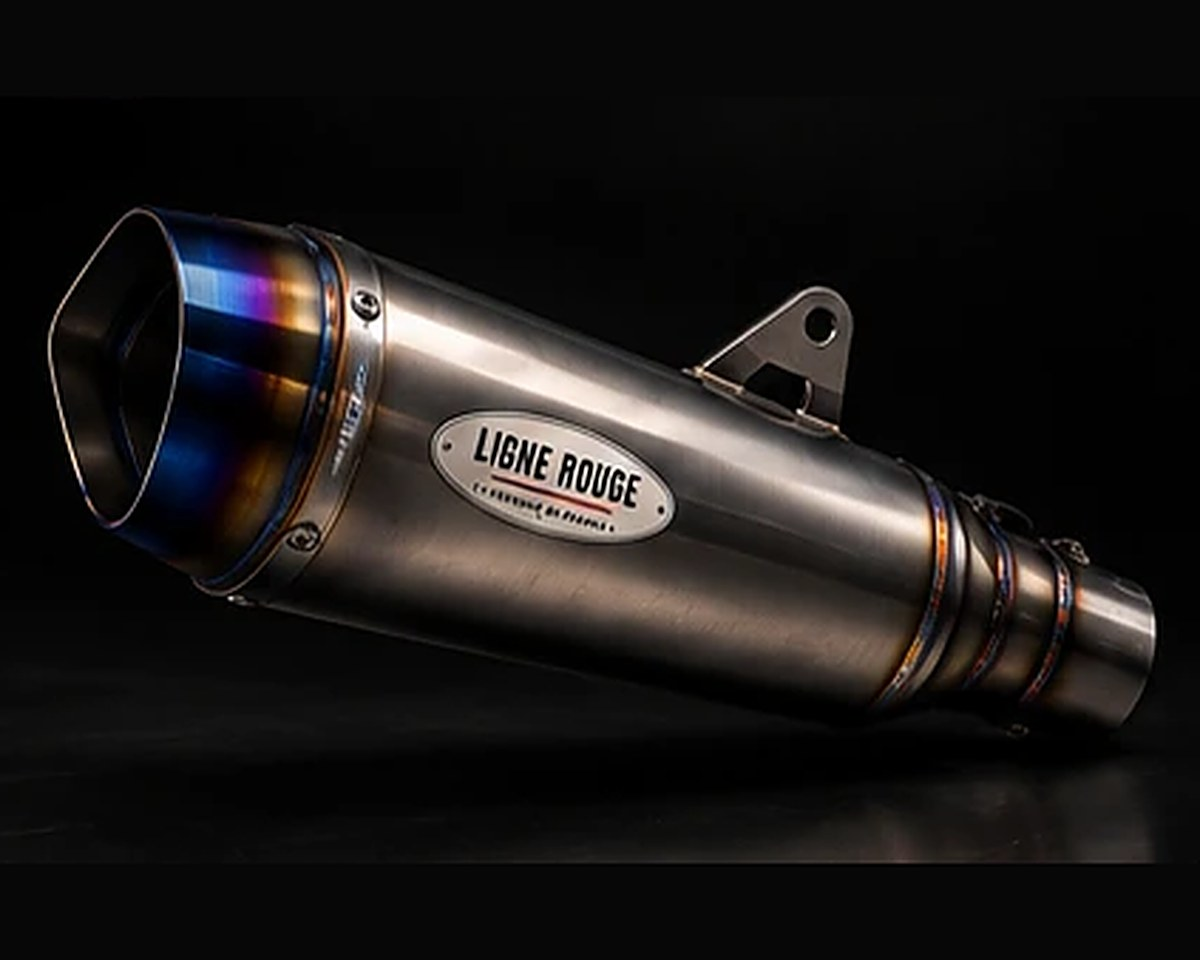
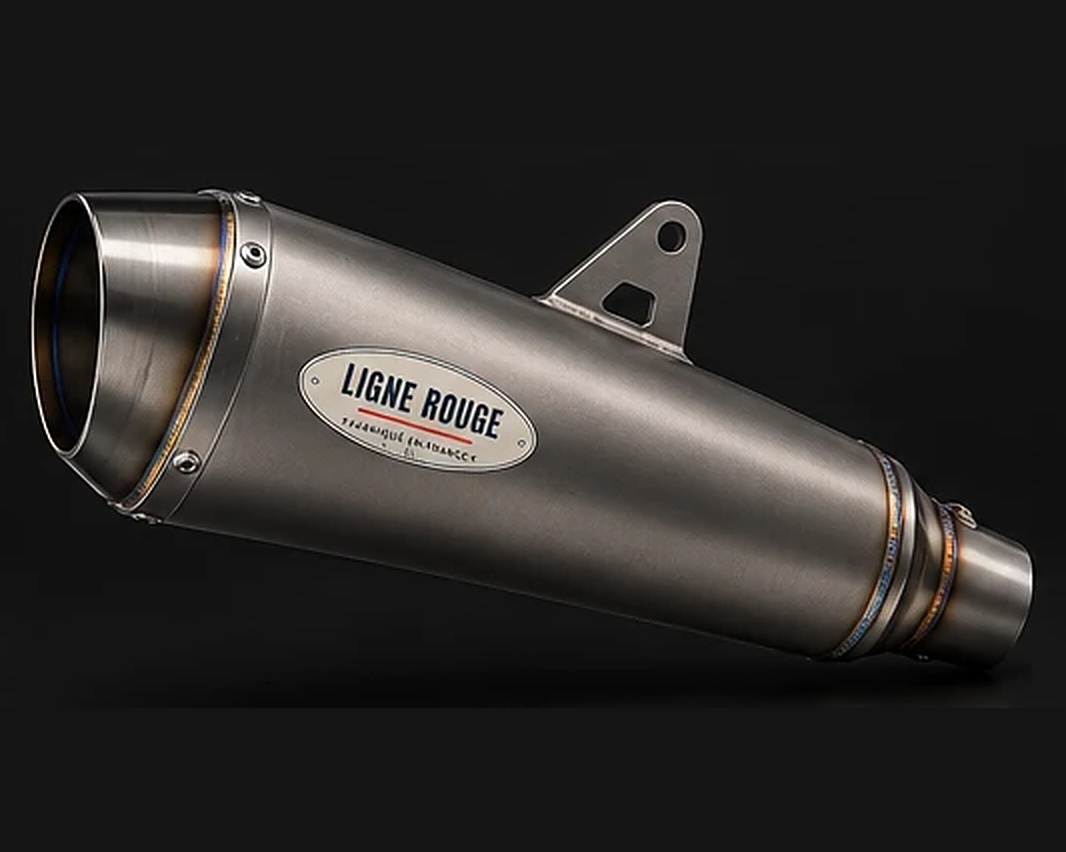
Fiches produit : une seule photo nette par pot (planche LIGNE ROUGE 1536 px), galerie supprimée

diff --git a/src/app/produit/[slug]/page.tsx b/src/app/produit/[slug]/page.tsx
@@ -2,11 +2,11 @@ import type { Metadata } from "next";
 import Link from "next/link";
 import { notFound } from "next/navigation";
 import ConfiguratorForm from "@/components/ConfiguratorForm";
-import ProductCard from "@/components/ProductCard";
+import Photo from "@/components/Photo";
+import ProductCard, { productImage } from "@/components/ProductCard";
 import ViewTracker from "@/components/ViewTracker";
 import BuyBox from "@/components/product/BuyBox";
 import CompatChecker from "@/components/product/CompatChecker";
-import Gallery from "@/components/product/Gallery";
 import ReviewForm from "@/components/product/ReviewForm";
 import { CircuitWarning, Gauge, Page, Stars, UsageBadge } from "@/components/ui";
 import { formatDate, formatInstall } from "@/lib/format";
@@ -47,7 +47,6 @@ export default async function ProductPage({ params }: Props) {
 
   const vehicles = ((compat ?? []) as unknown as CompatRow[]).map((c) => c.vehicle_models);
   const avg = reviews?.length ? reviews.reduce((s, r) => s + r.rating, 0) / reviews.length : 0;
-  const images = [...(p.product_images ?? [])].sort((a, b) => a.position - b.position);
   const garageList = ((garage.data ?? []) as unknown as { id: string; year: number; nickname: string | null; model_id: number; vehicle_models: { name: string; vehicle_makes: { name: string } } }[]).map((g) => ({
     id: g.id,
     model_id: g.model_id,
@@ -63,7 +62,10 @@ export default async function ProductPage({ params }: Props) {
       </nav>
 
       <div className="grid gap-10 lg:grid-cols-[1.15fr_1fr]">
-        <Gallery images={images} name={p.name} />
+        {/* Une seule photo, la plus nette : le pot sur fond studio */}
+        <div className="photo relative aspect-[5/4] self-start overflow-hidden rounded-md bg-[#111113]">
+          <Photo src={productImage(p)} alt={`${p.name}, échappement ${typeLabel.toLowerCase()} LIGNE ROUGE`} fill priority quality={95} sizes="(max-width: 1024px) 100vw, 55vw" className="object-contain" />
+        </div>
 
         <div>
           <Link

diff --git a/src/components/Photo.tsx b/src/components/Photo.tsx
@@ -3,11 +3,9 @@
 import Image, { type ImageProps } from "next/image";
 import { useState } from "react";
 
-export type ProductView = "34" | "profil" | "monte";
-
-/** Photo produit réelle dans public/photos/ (crédits : public/photos/CREDITS.md). */
-export function productPhoto(slug: string, view: ProductView = "34") {
-  return `/photos/${slug}-${view}.jpg`;
+/** Photo produit unique dans public/photos/ (crédits : public/photos/CREDITS.md). */
+export function productPhoto(slug: string) {
+  return `/photos/${slug}-34.jpg`;
 }
 
 /** Image qui bascule sur un repli éventuel, ou se masque, si la photo est absente. */

diff --git a/public/photos/CREDITS.md b/public/photos/CREDITS.md
@@ -4,32 +4,19 @@ Photos réelles libres de droits : **Unsplash** (licence Unsplash) et **Pexels**
 gratuite, commerciale comprise, sans attribution obligatoire. Retrouver l'auteur : `https://unsplash.com/photos/<id>`
 ou `https://www.pexels.com/photo/<id>/`.
 
-Fiches produit : visuels de la **planche produit LIGNE ROUGE** fournie par l'équipe (rendus studio des pots de la
-marque, plaque ovale « Fabriqué en France »). Les 3 vues d'un produit montrent le même pot : vue principale, seconde
-vue de la planche, gros plan. Découpe : recadrage dans la planche, fond complété au format 5:4, 1200 × 960.
+Fiches produit : **une seule photo par produit**, `<slug>-34.jpg`, découpée dans la planche produit LIGNE ROUGE
+fournie par l'équipe (la version 1536 px, la plus nette), fond complété au format 5:4.
 
 Photos d'ambiance (hero, catégories, bandeaux) : vraies photos libres de droits ci-dessous.
 
 | Fichier | Source |
 |---|---|
-| viper-twin-34 | Planche LIGNE ROUGE — Pot Moto 1 (carbone, sortie hexagonale) |
-| viper-twin-profil | Planche LIGNE ROUGE — Pot Moto 1 (carbone, sortie hexagonale) |
-| viper-twin-monte | Planche LIGNE ROUGE — Pot Moto 1 (carbone, sortie hexagonale) |
-| hellcat-racing-34 | Planche LIGNE ROUGE — Pot Moto 2 (titane conique) |
-| hellcat-racing-profil | Planche LIGNE ROUGE — Pot Moto 2 (titane conique) |
-| hellcat-racing-monte | Planche LIGNE ROUGE — Pot Moto 2 (titane conique) |
-| spectre-s-34 | Planche LIGNE ROUGE — Pot Moto 3 (noir, double sortie) |
-| spectre-s-profil | Planche LIGNE ROUGE — Pot Moto 3 (noir, double sortie) |
-| spectre-s-monte | Planche LIGNE ROUGE — Pot Moto 3 (noir, double sortie) |
-| titan-gt-34 | Planche LIGNE ROUGE — Pot Auto 1 (inox, double sortie) |
-| titan-gt-profil | Planche LIGNE ROUGE — Pot Auto 1 (inox, double sortie) |
-| titan-gt-monte | Planche LIGNE ROUGE — Pot Auto 1 (inox, double sortie) |
-| inferno-r-34 | Planche LIGNE ROUGE — Pot Auto 2 (titane, quadruple sortie) |
-| inferno-r-profil | Planche LIGNE ROUGE — Pot Auto 2 (titane, quadruple sortie) |
-| inferno-r-monte | Planche LIGNE ROUGE — Pot Auto 2 (titane, quadruple sortie) |
-| carbon-fury-34 | Planche LIGNE ROUGE — Pot Auto 3 (noir, sortie ovale) |
-| carbon-fury-profil | Planche LIGNE ROUGE — Pot Auto 3 (noir, sortie ovale) |
-| carbon-fury-monte | Planche LIGNE ROUGE — Pot Auto 3 (noir, sortie ovale) |
+| viper-twin-34 | Planche LIGNE ROUGE — Moto, carbone sortie hexagonale |
+| hellcat-racing-34 | Planche LIGNE ROUGE — Moto, titane conique |
+| spectre-s-34 | Planche LIGNE ROUGE — Moto, noir sortie hexagonale |
+| titan-gt-34 | Planche LIGNE ROUGE — Auto, inox sortie ovale |
+| inferno-r-34 | Planche LIGNE ROUGE — Auto, titane embout bleui |
+| carbon-fury-34 | Planche LIGNE ROUGE — Auto, noir double sortie carbone |
 | hero-route | Unsplash 1779885529717-952eb9a81849 |
 | hero-circuit | Unsplash 1759169955381-0d930b1b2067 |
 | categorie-voitures | Unsplash 1503221507150-dcb5a13416ca |

diff --git a/.claude/skills/add-product/SKILL.md b/.claude/skills/add-product/SKILL.md
@@ -10,11 +10,11 @@ Rassembler : nom en capitales, ref `LR-XX-NN` (XX = initiales, NN = numéro suiv
 
 Règle métier : un produit `circuit` a toujours un dB ≥ 105 et **ne doit jamais** être présenté comme homologué.
 
-## 2. Photos du pot
-Trois vues **du même pot** par produit dans `public/photos/` : `<slug>-34.jpg` (image principale), `<slug>-profil.jpg`,
-`<slug>-monte.jpg`, au format 5:4 (1200 × 960). Source : la planche produit LIGNE ROUGE fournie par l'équipe (rendus
-studio avec la plaque ovale « Fabriqué en France ») ; on recadre le pot et on complète le fond noir jusqu'au 5:4.
-Noter la source de chaque fichier dans `public/photos/CREDITS.md`. Aucun logo de marque concurrente.
+## 2. Photo du pot
+**Une seule photo par produit**, la plus nette possible : `public/photos/<slug>-34.jpg`, format 5:4, une seule ligne
+`product_images` (position 0). Source : la planche produit LIGNE ROUGE fournie par l'équipe (rendus studio avec la
+plaque ovale « Fabriqué en France ») ; prendre la version la plus grande, recadrer le pot, compléter le fond noir
+jusqu'au 5:4, sans upscaling agressif. Noter la source dans `public/photos/CREDITS.md`. Aucun logo concurrent.
 Le composant `Photo` n'affiche rien si le fichier manque.
 
 ## 3. Seed SQL
@@ -30,7 +30,7 @@ with p as (
 insert into public.product_variants (product_id, color_name, color_hex, stock)
 select id, v.c, v.h, v.s from p, (values ('Titane brut', '#B8B5AE', 4), ('Noir mat', '#1A1A1A', 4)) v(c, h, s);
 ```
-Puis `product_images` (positions 0 = 3/4, 1 = profil, 2 = monté) et `product_compatibility` en joignant `vehicle_models` par `name` + `generation` (ajouter le modèle dans `vehicle_models` s'il manque).
+Puis une seule ligne `product_images` (position 0, `/photos/<slug>-34.jpg`) et `product_compatibility` en joignant `vehicle_models` par `name` + `generation` (ajouter le modèle dans `vehicle_models` s'il manque).
 
 Le `stock` du produit = somme des stocks des variantes.
 
